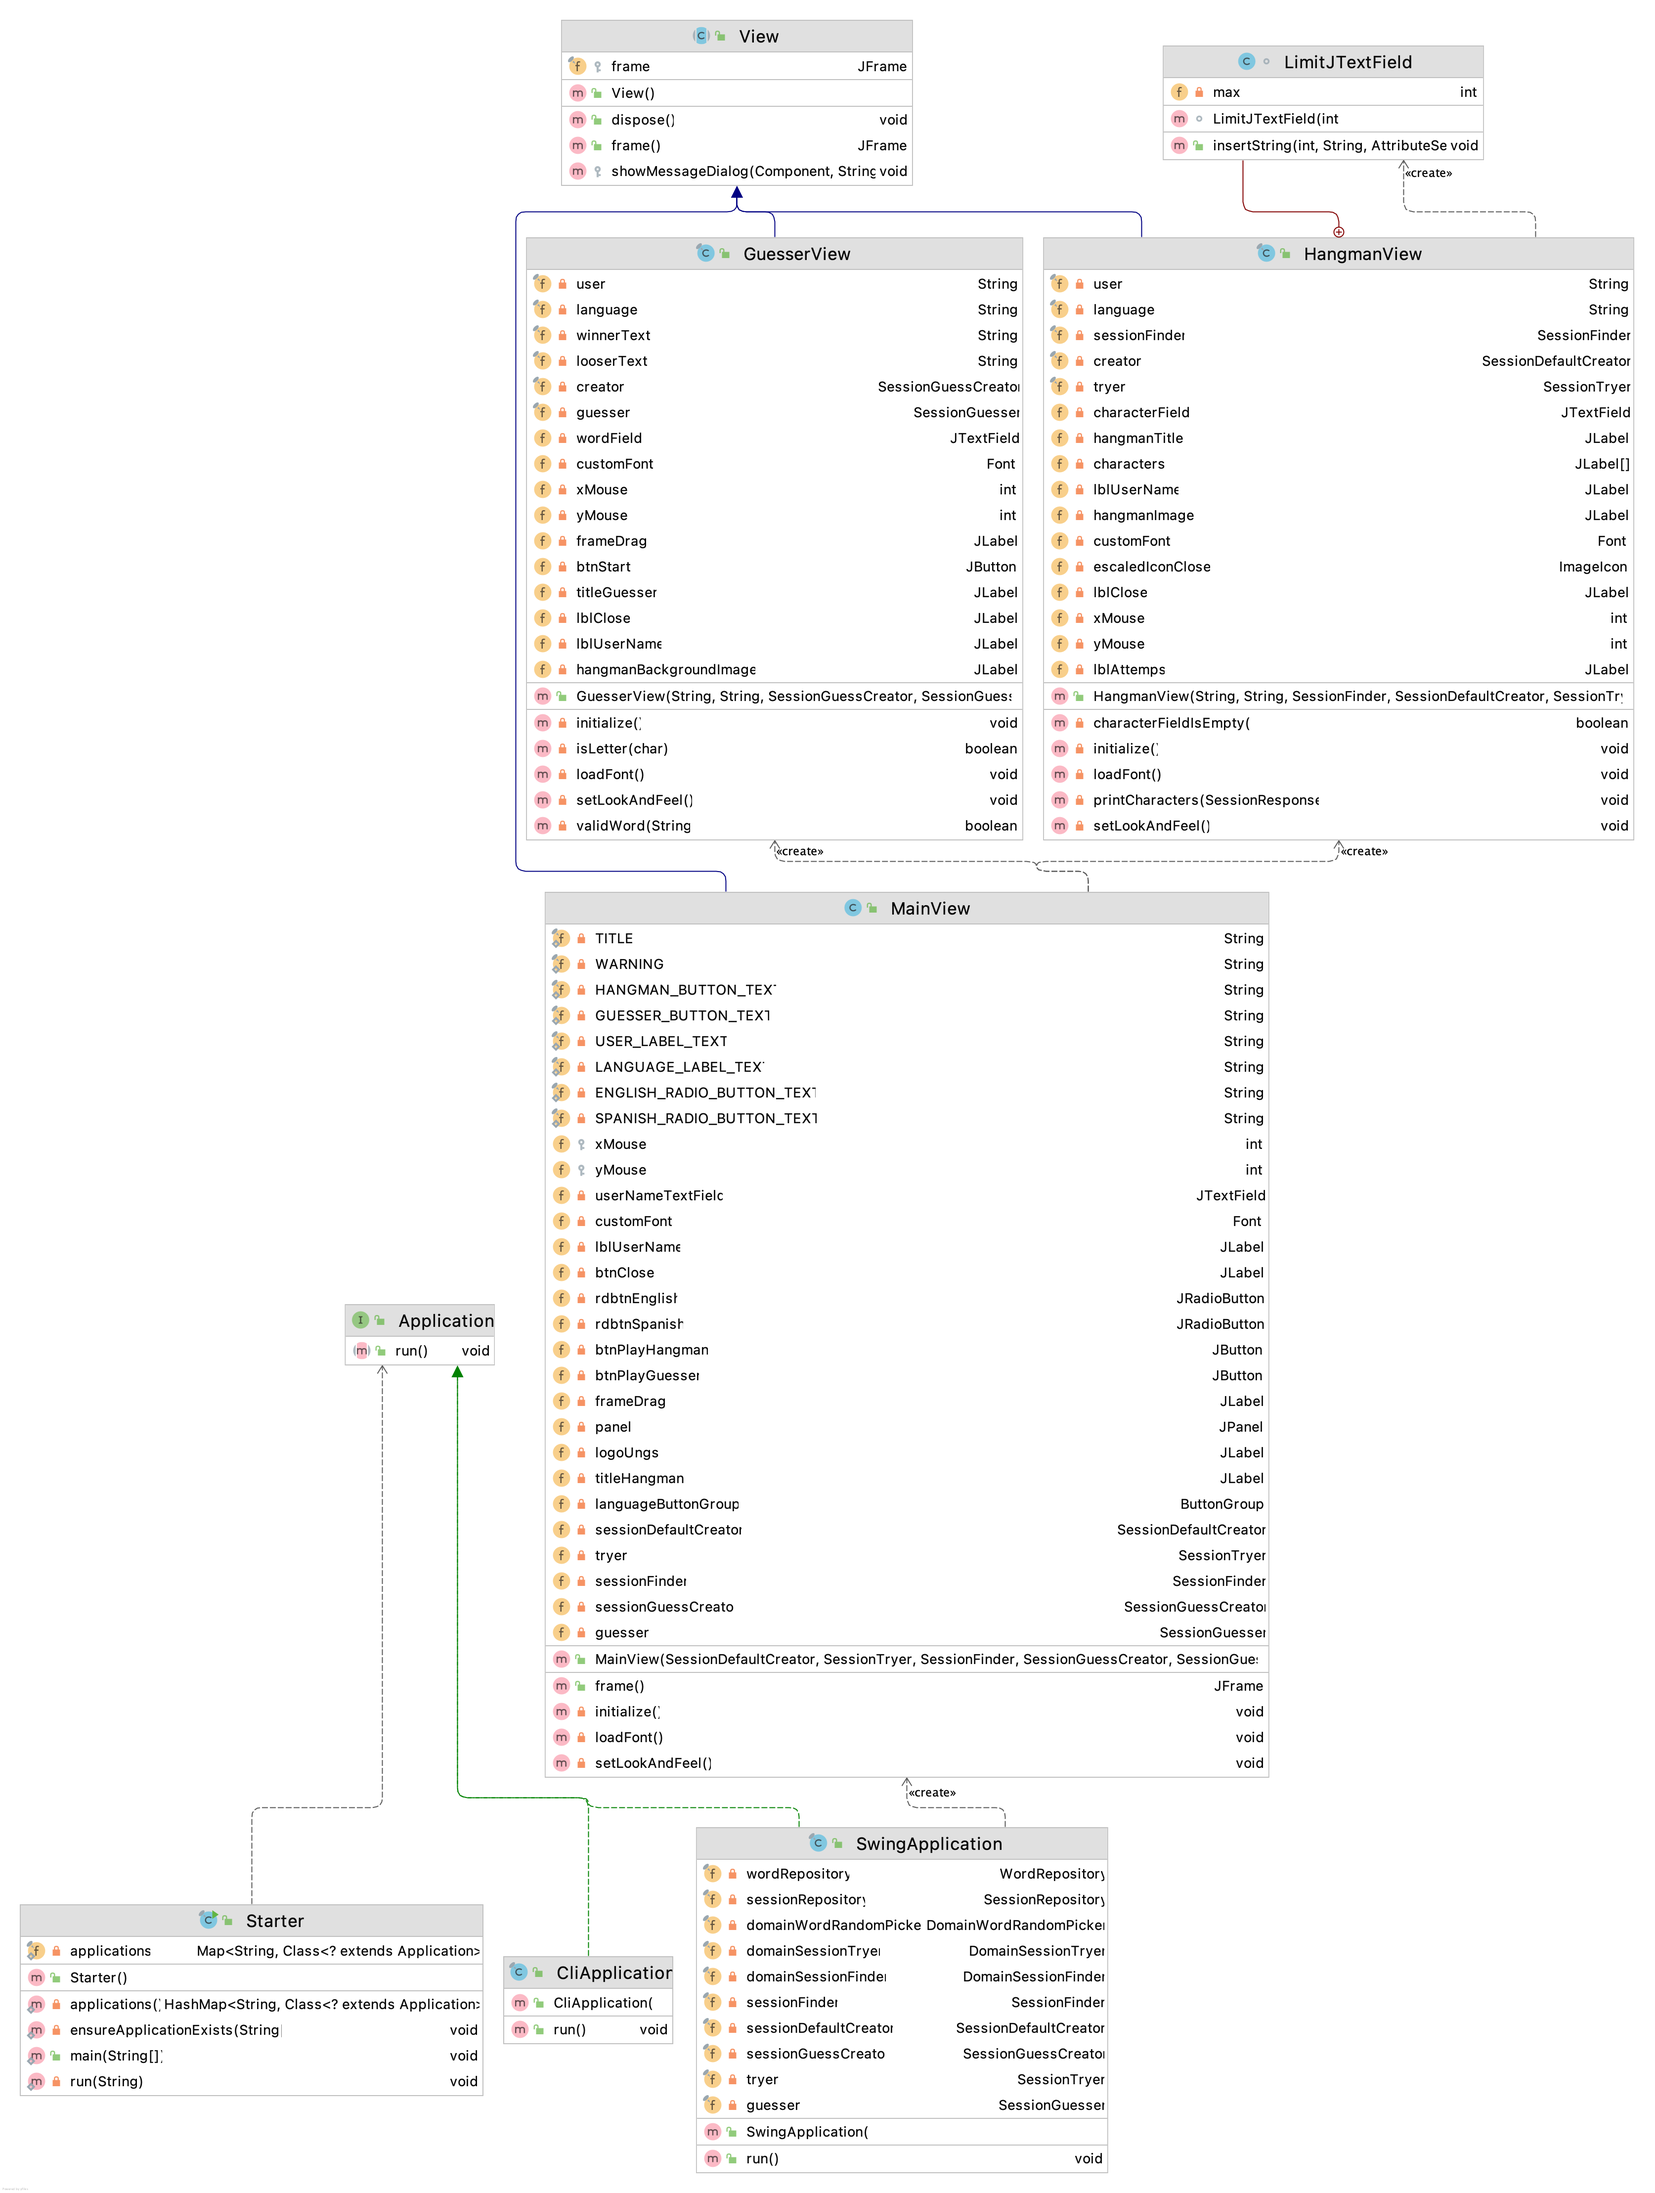
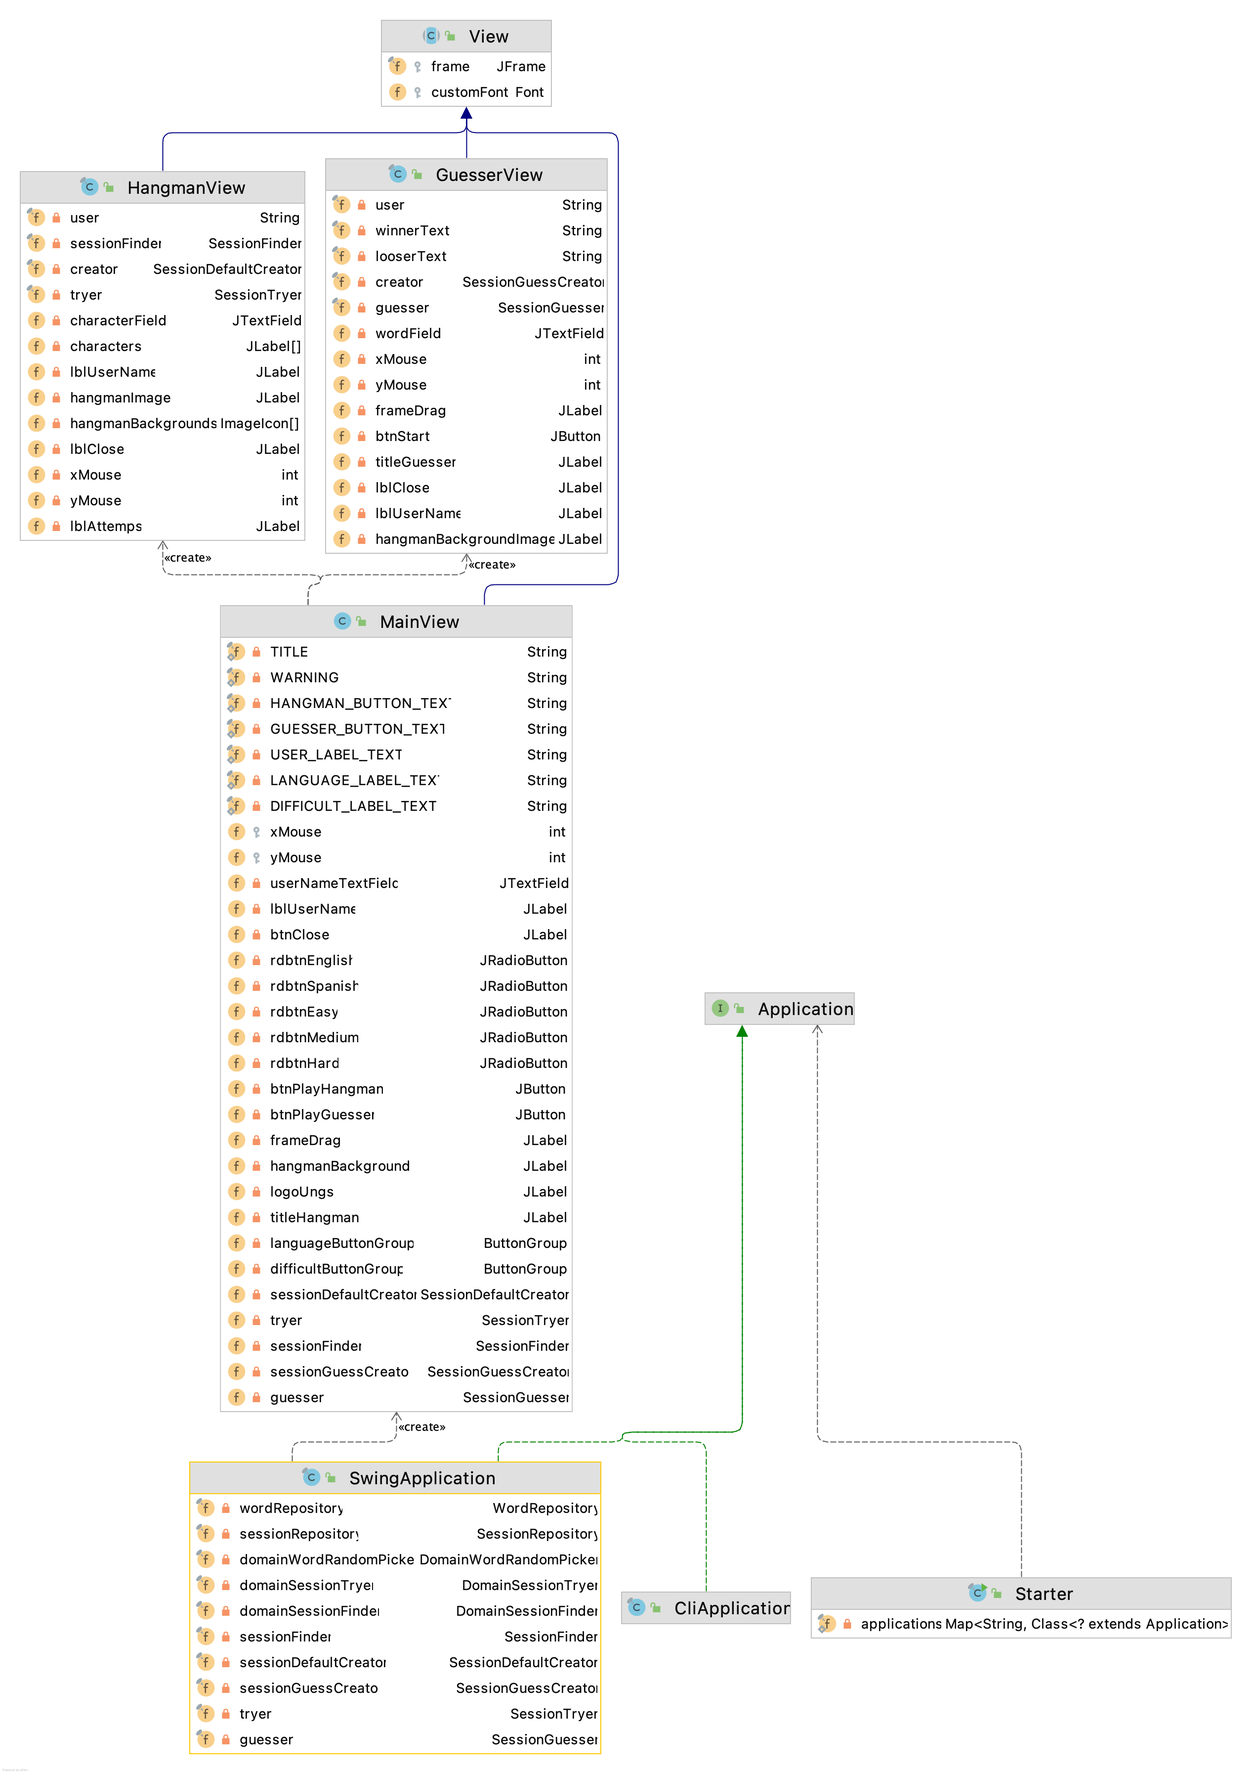
docs: Add UML in ADD

Changed region(s): [[0.0, 0.0, 0.9976, 0.9989], [0.5612, 0.5619, 0.6859, 0.5931], [0.4988, 0.7492, 0.53, 0.7804]]

diff --git a/docs/ADD.md b/docs/ADD.md
@@ -15,8 +15,6 @@ palabras en inglés.
 
 ## Solución Técnica
 
-### Descripción de la solución
-
 ### Arquitectura
 La **arquitectura hexagonal**, o arquitectura de puertos y adaptadores, es un patrón arquitectónico utilizado en el diseño de software. Su objetivo es crear componentes de aplicaciones débilmente acoplados que puedan conectarse fácilmente a su entorno de software por medio de puertos y adaptadores. La misma está conformada por cuatro capas importantes: Domain; Application; Infrastructure; App
 
@@ -182,3 +180,10 @@ Los servicios de dominio representan una agrupación de lógica de negocio que p
 1. [DomainSessionFinder](https://github.com/fraruiz/hangman/blob/master/docs/services/domain/domain-session-finder.md "DomainSessionFinder")
 2. [DomainSessionTryer](https://github.com/fraruiz/hangman/blob/master/docs/services/domain/domain-session-tryer.md "DomainSessionTryer")
 3. [DomainWordRandomPicker](https://github.com/fraruiz/hangman/blob/master/docs/services/domain/domain-word-random-picker.md "DomainWordRandomPicker")
+
+## UML
+### Apps
+![Apps UML](https://github.com/fraruiz/hangman/blob/master/docs/assets/apps.png?raw=true)
+
+### Core
+![Core UML](https://github.com/fraruiz/hangman/blob/master/docs/assets/core.png?raw=true)
